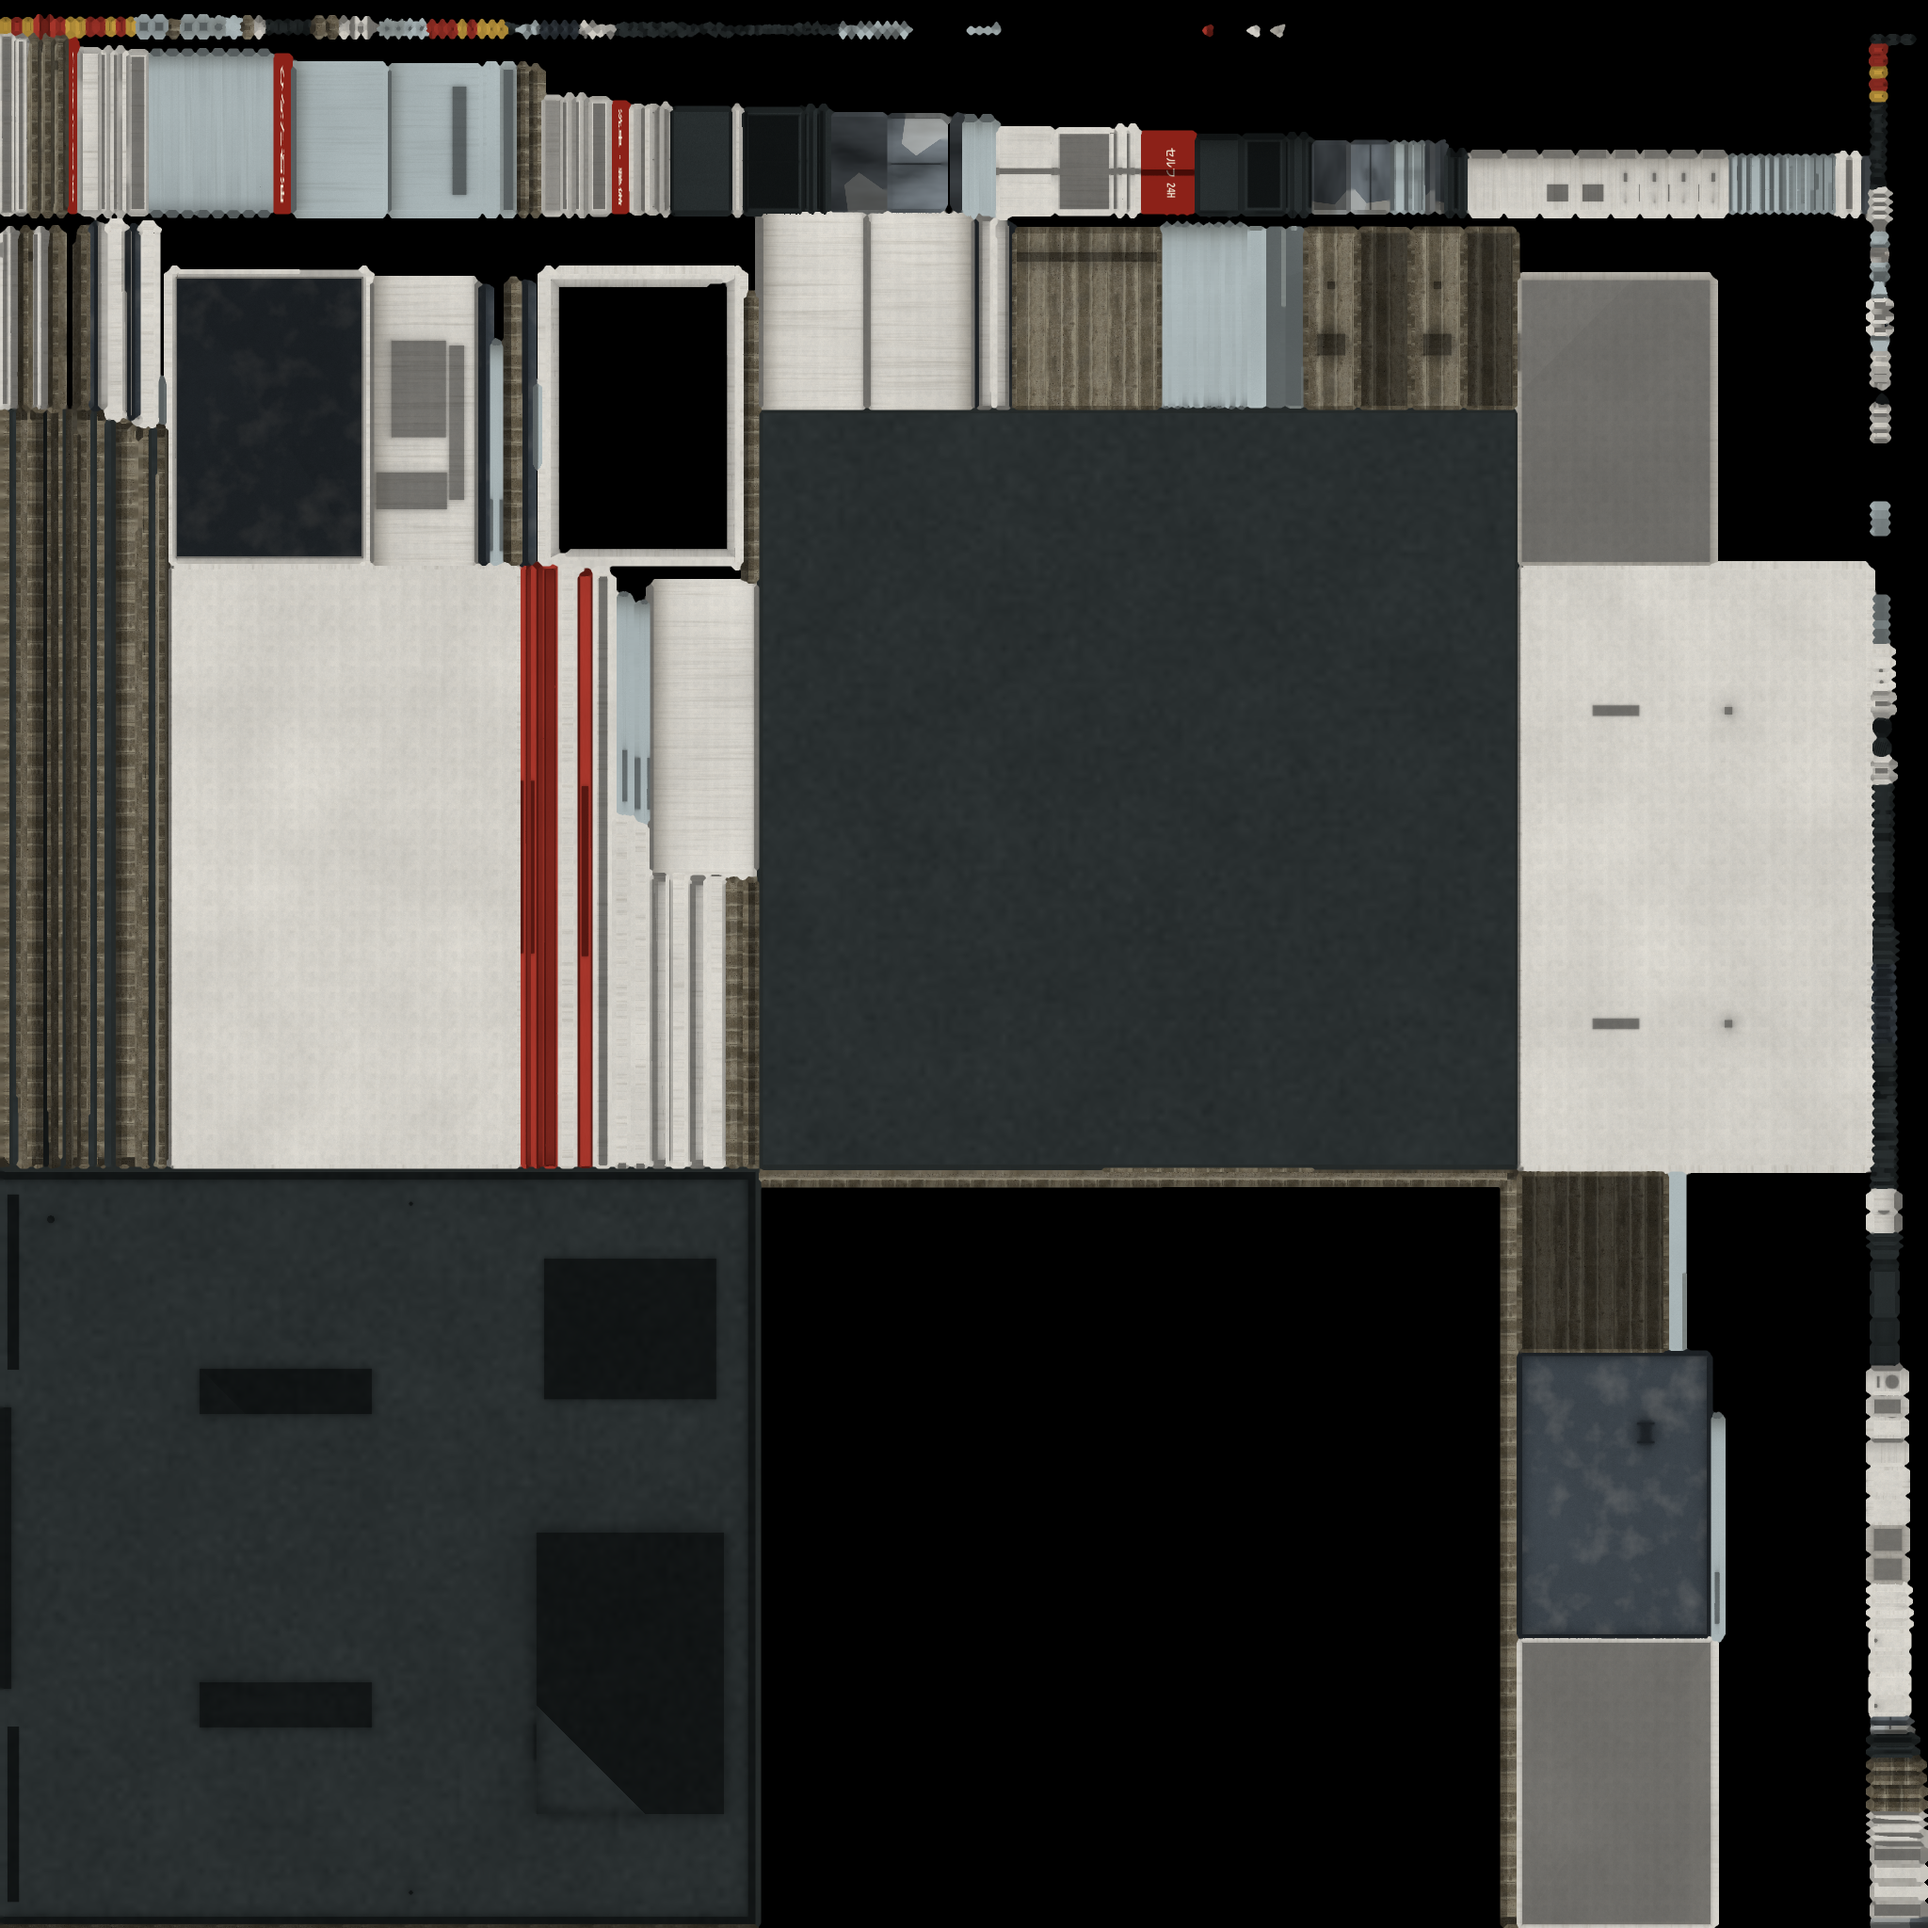
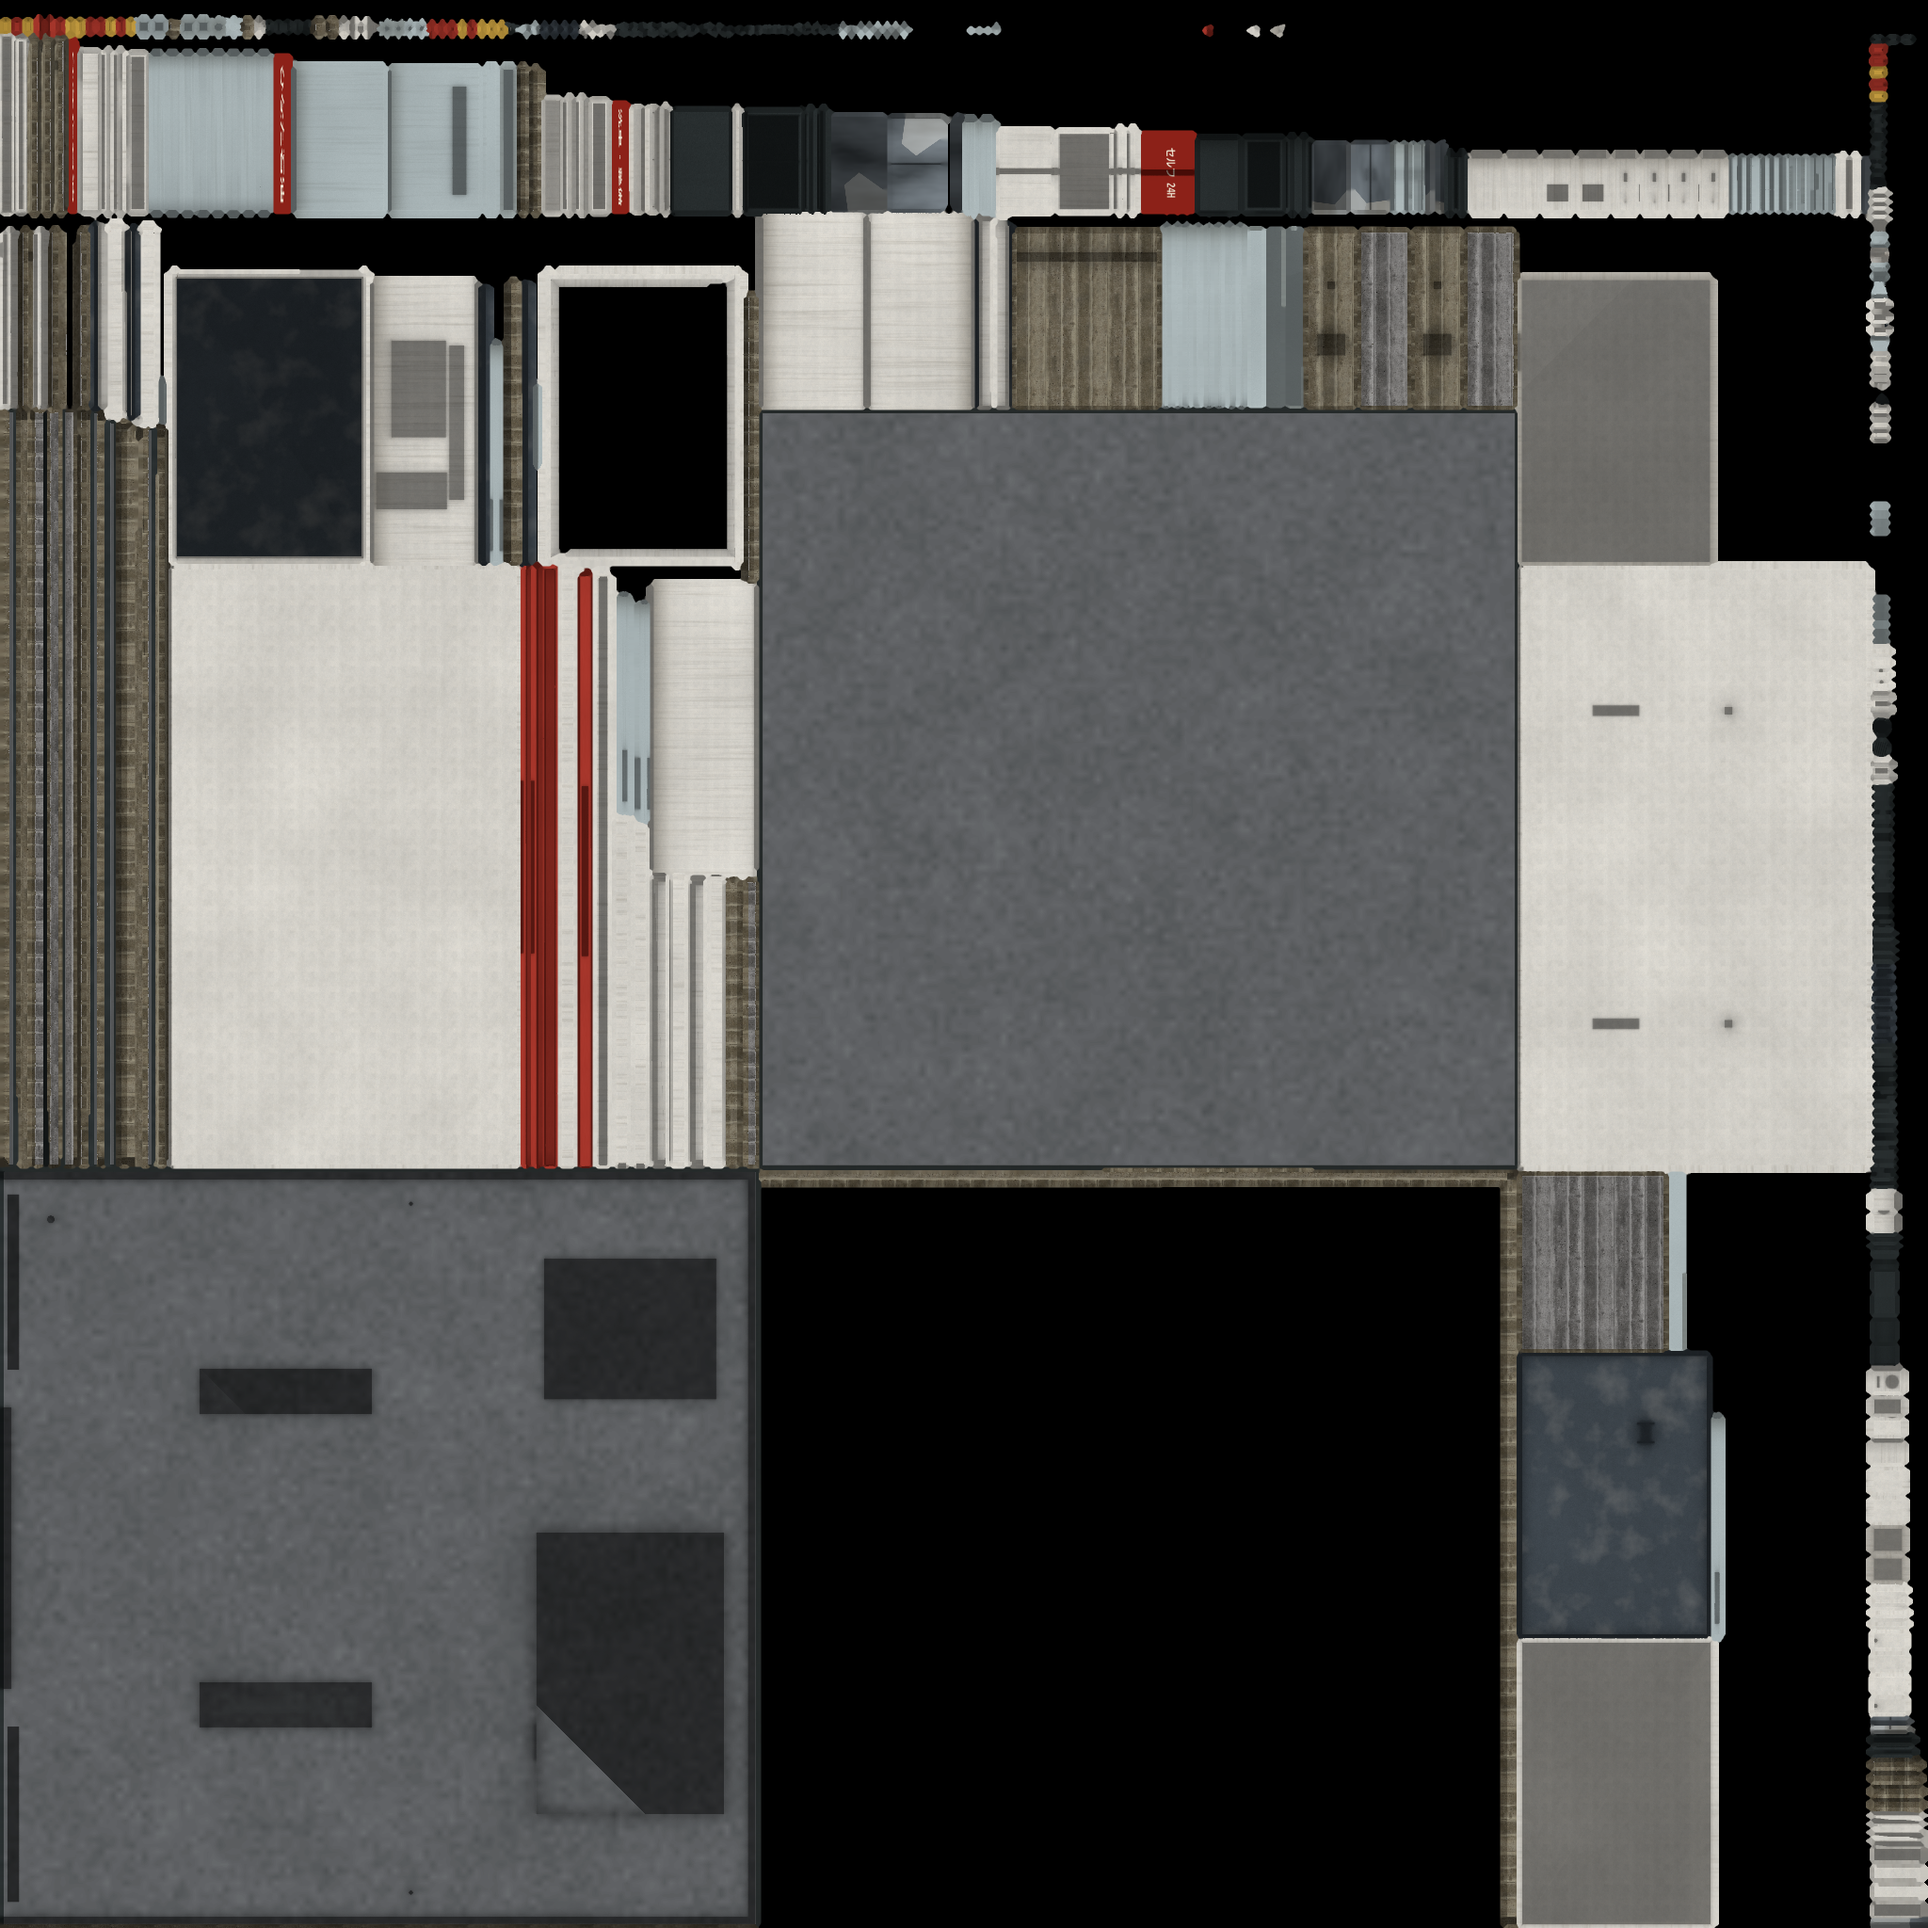
Favour pitched-roof houses and lighten roadside lot asphalt
Detached homes now pick pitched-roof models three times as often as flat-roof
boxes, and low apartments lean to two-storey models. Roadside convenience,
fuel and mall lots keep their real size but their baked asphalt now matches
the road tone instead of reading as an oversized black slab.

Changed region(s): [[0.0, 0.125, 0.875, 1.0]]

diff --git a/src/zone/Building.hpp b/src/zone/Building.hpp
@@ -110,8 +110,10 @@ inline uint8 residentialModelIndex(BuildingType t, int gx, int gz)
 {
 	const uint32 h = (static_cast<uint32>(gx) * 73856093u)
 	               ^ (static_cast<uint32>(gz) * 19349663u);
-	static constexpr uint8 kDetachedVariants[] = { 0, 1, 2, 3, 10, 11, 12, 13 };
-	static constexpr uint8 kLowApartmentVariants[] = { 4, 5, 14, 15 };
+	// 日本の戸建ては大半が2階建ての勾配屋根。勾配屋根の 0,2,10,12 を陸屋根の 1,3,11,13 の3倍出す。
+	static constexpr uint8 kDetachedVariants[] = { 0, 2, 10, 12, 0, 2, 10, 12, 0, 2, 10, 12, 1, 3, 11, 13 };
+	// 低層集合住宅は2階建ての 4,14 を主に、3階建ての箱 5,15 を3割程度にする。
+	static constexpr uint8 kLowApartmentVariants[] = { 4, 14, 4, 14, 5, 15, 4, 14, 5, 15 };
 	static constexpr uint8 kMidApartmentVariants[] = { 6, 7, 16 };
 	static constexpr uint8 kHighApartmentVariants[] = { 8, 9, 17 };
 	switch (t)

diff --git a/artifacts/aerial_ground_cover_20261030/REVIEW.md b/artifacts/aerial_ground_cover_20261030/REVIEW.md
@@ -114,3 +114,16 @@
 
 - ニュータウンと同じ不整形な外形（角を丸め斜め方向を最大15%欠く）を市場町・宿場町・港町に適用して試した（門前町は端の境内で街路網が分断されたため対象外にした）。全テストは合格したが、seed 42 の建物が 47152→34199棟（27%減）となり、沿道開発の帯を矩形のまま残しても減り方は変わらなかった。平野の町の角を一律に欠く根拠は地形にないため取り下げた。
 - 地形・水際に沿った外縁は既存の仕組みで表れている：格子点は乾いた高さ（districtRoads_minimumDryHeight）未満と接続勾配の上限を超える区間に置かず、用途地域も最低標高・最大勾配を超えるセルを白地にする。浸水する建物は検証で0件。
+
+## 戸建ての屋根形状の比率
+
+- 住宅地の近景が陸屋根の箱で埋まっていた。原因は戸建てモデル8種のうち半数（residential 002/004/012/014）が陸屋根で、低層集合住宅4種もすべて陸屋根（うち2種は3階建ての箱）を均等に選んでいたこと。
+- 日本の戸建ては大半が2階建ての勾配屋根なので、戸建ては勾配屋根4種を陸屋根4種の3倍（勾配75%）、低層集合住宅は2階建て2種を7割・3階建て2種を3割にした（`residentialModelIndex`）。建物の種類・配置・高さの上限は変えていない。
+- 比較: `final_15_seed42_pitched_roofs.jpg`（同一座標の固定視点、上が前・下が後）。
+
+## 郊外店舗の駐車場
+
+- 「駐車場が店舗に対して広すぎる」と見えた原因を調べた。郊外コンビニのモデルは敷地36×32m（約1,150㎡、店舗23×16m＋前面2列の駐車枠）で、実在の郊外型コンビニの敷地（概ね1,000〜2,000㎡）の範囲内。テスト `Buildings.UrbanAndRuralSites` も「駐車場・ヤードを住宅区画に押し込まない」ことを仕様として敷地寸法を固定しており、仕様の側が妥当と判断して縮小はしない。
+- 広く見えた主因は焼き込みテクスチャのアスファルトが黒すぎること（画面上で道路の約半分の明るさ、RGB約36 対 道路約73）。郊外コンビニ・給油所（郊外・市街地）・ショッピングモールの地表面（地上0.12m以下の面）の暗い画素だけを約1.8倍明るくし、道路と同じ灰色にそろえた。白線・縁石・店舗は変えていない。
+- 比較: `final_16_seed42_roadside_lot_tone.jpg`（上は変更前、下は変更後。別の店舗だが同じモデル）。暗い画素は彩度を落として中性の灰色にし、画面上で道路と同程度の明るさにした。
+- 検証: 全テスト 509/509 合格。seed 42・seed 7 とも `generationPassed=true`（建物 47,152・58,670、新規生成と38視点の撮影で184秒・191秒）。モデルの選び方とテクスチャだけの変更で、描画負荷は変わらない。
